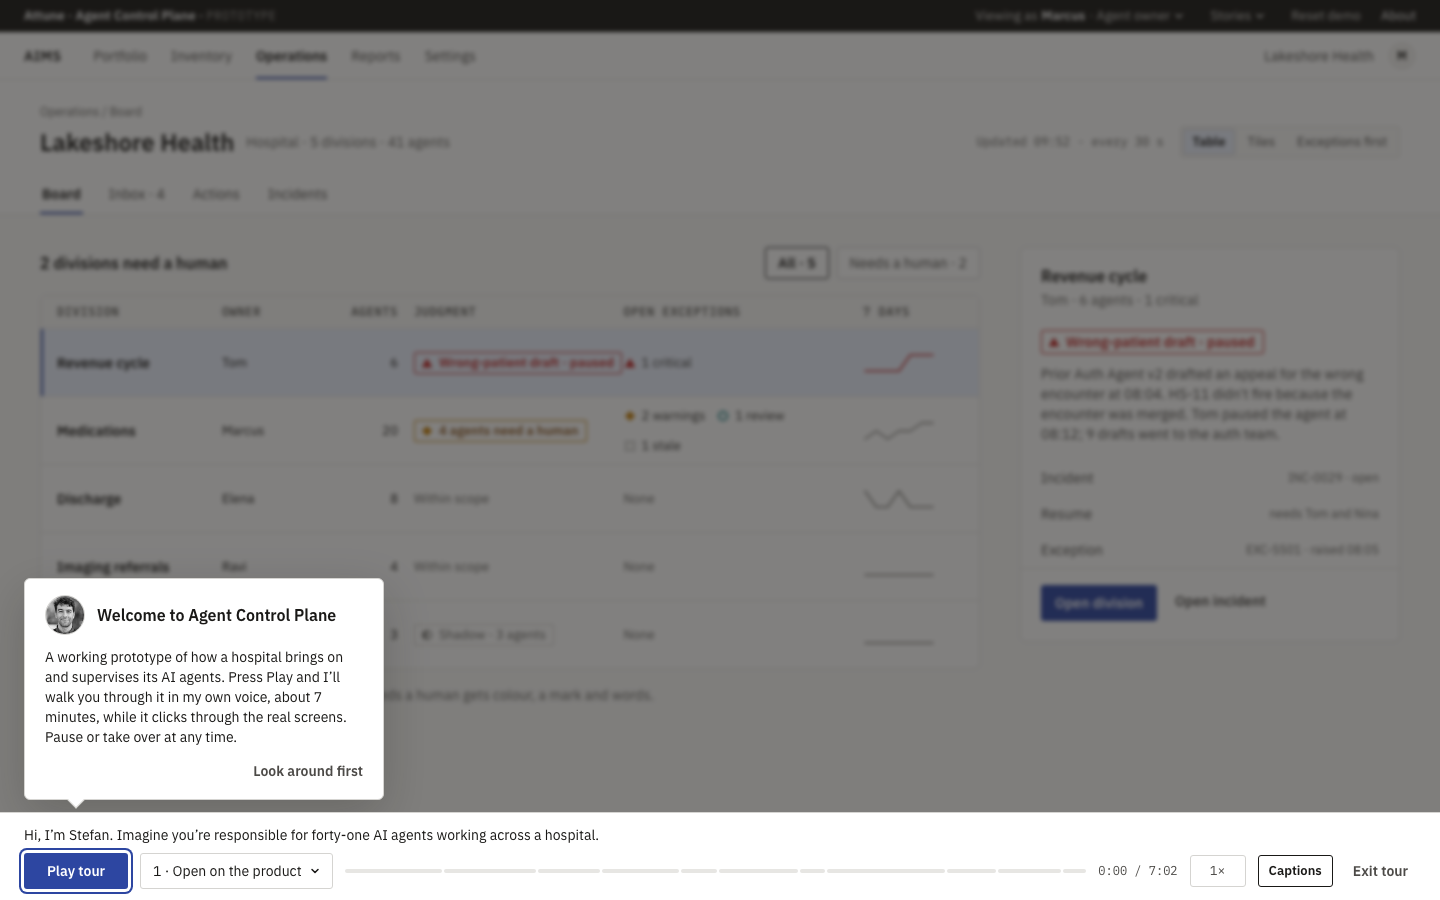
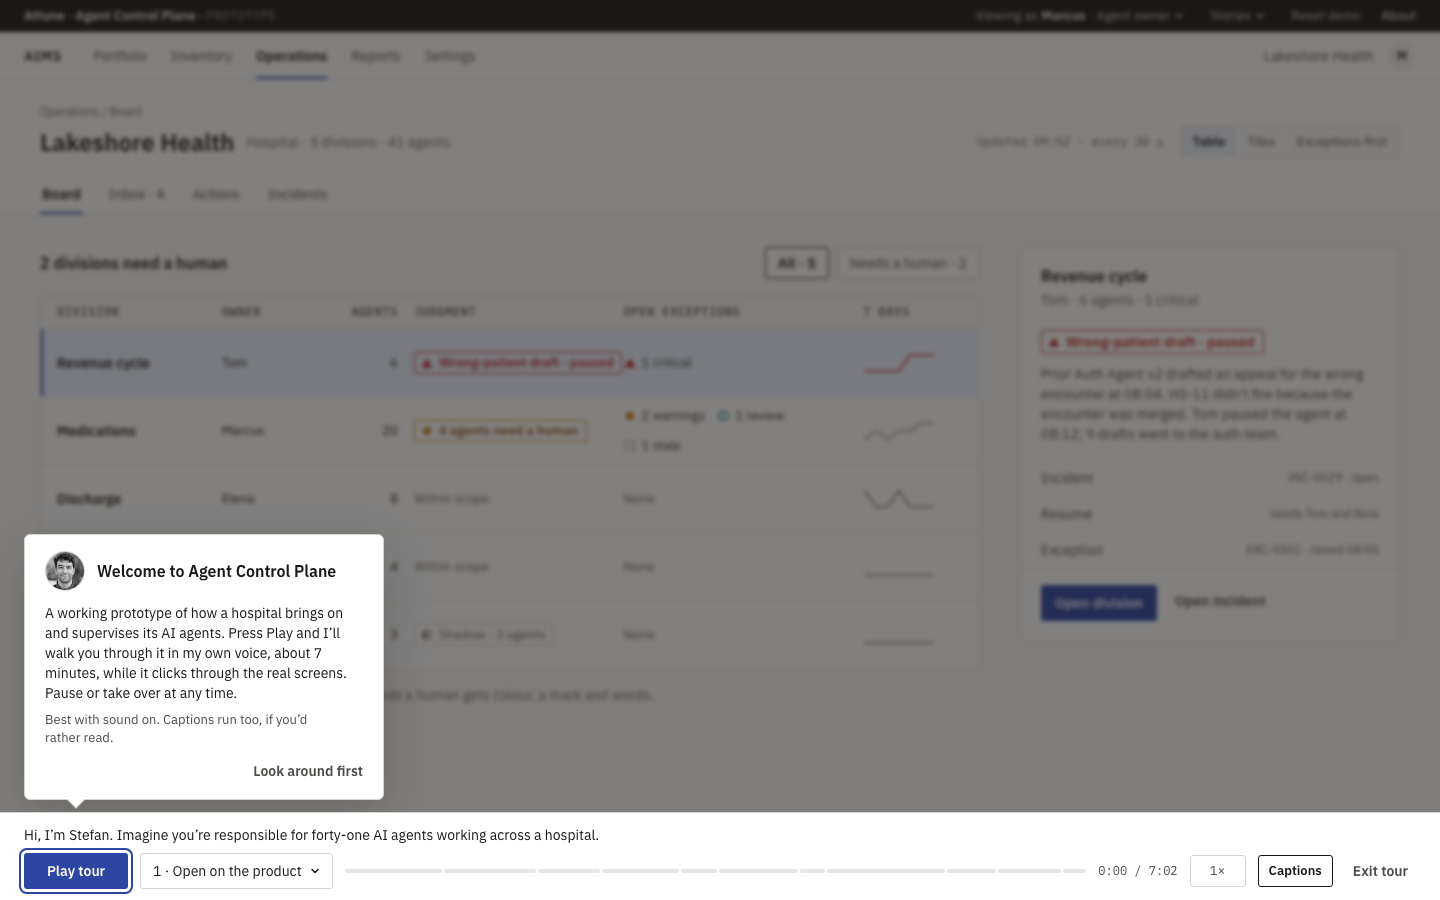
feat: ask for sound on the landing page and in the welcome; captions cover the rest
A page can't read or change the visitor's volume, so it asks: "Best with
sound on" under Play the tour, and a line in the welcome that also says the
captions run.

Changed region(s): [[0.0, 0.5911, 0.2812, 0.84]]

diff --git a/src/prototype/Landing/Landing.tsx b/src/prototype/Landing/Landing.tsx
@@ -27,6 +27,7 @@ export function Landing() {
   const { timeline, player } = tourRuntime()
   const minutes = tourMinutes(timeline.total)
   const exploreHintId = useId()
+  const soundHintId = useId()
 
   // The click is the gesture that lets the browser play audio, so the voice is primed inside it.
   const playTour = () => {
@@ -55,9 +56,14 @@ export function Landing() {
           41 agents in 5 divisions. The clock is frozen at Tue 08 Dec 2026, 09:52.
         </p>
         <div className={styles.actions}>
-          <Button variant="primary" onClick={playTour}>
-            Play the tour · {minutes} min
-          </Button>
+          <div className={styles.play}>
+            <Button variant="primary" aria-describedby={soundHintId} onClick={playTour}>
+              Play the tour · {minutes} min
+            </Button>
+            <span id={soundHintId} className={type.meta}>
+              Best with sound on
+            </span>
+          </div>
           <div className={styles.more}>
             <div className={styles.moreButtons}>
               <Button variant="secondary" aria-describedby={exploreHintId} onClick={exploreFreely}>

diff --git a/src/prototype/Landing/Landing.test.tsx b/src/prototype/Landing/Landing.test.tsx
@@ -141,6 +141,14 @@ test('the Marcus hint sits directly under Explore freely, and describes it', () 
   expect(explore.parentElement!.nextElementSibling).toBe(hint)
 })
 
+test('the sound hint sits directly under Play the tour, and describes it', () => {
+  show()
+  const play = screen.getByRole('button', { name: /^Play the tour · \d+ min$/ })
+  const hint = screen.getByText('Best with sound on')
+  expect(play).toHaveAccessibleDescription('Best with sound on')
+  expect(play.nextElementSibling).toBe(hint)
+})
+
 test('the button says the tour’s length in whole minutes, and never 0', () => {
   showWithLength((7 * 60 + 2) * 1000)
   expect(screen.getByRole('button', { name: 'Play the tour · 7 min' })).toBeInTheDocument()

diff --git a/src/prototype/tour/TourWelcome.test.tsx b/src/prototype/tour/TourWelcome.test.tsx
@@ -76,6 +76,13 @@ test('scrim and card sit in one layer marked data-tour="welcome", the tour’s o
   expect(layer()).toContainElement(region())
 })
 
+test('it asks for sound, and says the captions run too, as part of what Play is described by', () => {
+  setup()
+  expect(document.getElementById('welcome-body')).toHaveTextContent(
+    'Best with sound on. Captions run too, if you’d rather read.',
+  )
+})
+
 test('a link that starts after the first chapter says where it starts', () => {
   setup({ chapter: 1 })
   expect(screen.getByText('You’re starting at chapter 2 of 2: Decision 1.')).toBeInTheDocument()

diff --git a/src/prototype/tour/TourWelcome.tsx b/src/prototype/tour/TourWelcome.tsx
@@ -173,6 +173,7 @@ export function TourWelcome({
             and I’ll walk you through it in my own voice, about {minutes} minutes, while it clicks
             through the real screens. Pause or take over at any time.
           </p>
+          <p className={styles.note}>Best with sound on. Captions run too, if you’d rather read.</p>
           {shown > 0 ? (
             <p className={styles.partway}>
               You’re starting at chapter {n} of {chapters.length}: {chapters[shown]?.title}.

diff --git a/src/prototype/tour/TourWelcome.module.css b/src/prototype/tour/TourWelcome.module.css
@@ -100,11 +100,13 @@
   text-wrap: pretty;
 }
 
+.note,
 .partway {
   margin: 0;
   font-size: 13px;
   line-height: 18px;
   color: var(--cs-text2);
+  text-wrap: pretty;
 }
 
 /* One quiet action, on the right; the margin lines the ghost button's text up with the card's. */

diff --git a/src/prototype/Landing/Landing.module.css b/src/prototype/Landing/Landing.module.css
@@ -41,6 +41,7 @@
   margin-top: 8px;
 }
 
+.play,
 .more {
   display: flex;
   flex-direction: column;

diff --git a/docs/BUILD_PLAN.md b/docs/BUILD_PLAN.md
@@ -899,4 +899,4 @@ One row per working session. Newest last.
 | 2026-10-10 | 10 | Built and reviewed 10.10 (problem, people, process, validate, close; override trim) and 10.11 (decisions page, explorations, thumbnails, time model). All 65 lines in Stefan's voice; 7:15 modelled. 1090 unit and 276 e2e tests green | CHECKPOINT C on the preview |
 | 2026-10-10 | 10 | Checkpoint C: Stefan kept the mockups' names and the banner. Built and reviewed 10.12 (landing with Play the tour, the photo credit, the Attune rename) and 10.15 (About as the case study) | 10.16 |
 | 2026-10-11 | 10 | 10.16: real-time Chromium run 7:24; screenshots and og.png with Attune; README tour section. Final whole-branch review: 0 Critical, 3 Important, 9 Minor; one fix wave (Back and Forward, Explore freely, a click on interludes pauses, captions at 1024 px, the first chapter announced, copy, guards, audio caching), re-reviewed clean. 1154 unit and 288 e2e tests green; Safari moved to Stefan; PR #21 marked ready | CHECKPOINT E: Stefan reviews the preview, including Safari |
-| 2026-10-11 | 10 | Checkpoint E feedback ("really good"; the Play button is hard to find from a link): built the tour welcome (dimmed product, a card pointing at Play tour) to the approved mockup; reviewed, one small fix round. 1206 unit and 296 e2e tests green | CHECKPOINT E: Stefan reviews the welcome on the preview, then Safari and merge |
+| 2026-10-11 | 10 | Checkpoint E feedback ("really good"; the Play button is hard to find from a link): built the tour welcome (dimmed product, a card pointing at Play tour) to the approved mockup; reviewed, one small fix round. 1208 unit and 296 e2e tests green. Then "Best with sound on" under the landing page's Play and in the welcome (a page can't read the visitor's volume) | CHECKPOINT E: Stefan reviews the welcome on the preview, then Safari and merge |

diff --git a/README.md b/README.md
@@ -51,7 +51,7 @@
 - **The mock hospital** is one versioned Zustand store with named scenarios (moments in time such as "resume requested" or "nine days later"). Every change goes through `can()` for permissions and writes the audit log, so any action can be traced back.
 - **The story engine** (`src/prototype/stories`) keeps `?story=&step=` in the URL, loads the moment each step needs, and keeps what the visitor did between steps.
 - **The guided tour** (`src/prototype/tour`) is data: eleven chapters of narration, each line with the clicks and outlines that play under it. A player runs one line at a time, clip and actions together, over the same router and store as everything else. Its recorded clips live in `public/tour/audio`, with their lengths in a manifest.
-- **Tests:** 1206 unit tests (Vitest and Testing Library) and 296 end-to-end tests (Playwright), including every route, every story from a shared link, every chapter of the tour, keyboard paths, and an axe accessibility check (WCAG 2.1 AA) on every screen. A further run, opt-in because it takes 7½ minutes, plays the whole tour in real time in its recorded voice. `pnpm capture` screenshots each frame beside its design for visual QA.
+- **Tests:** 1208 unit tests (Vitest and Testing Library) and 296 end-to-end tests (Playwright), including every route, every story from a shared link, every chapter of the tour, keyboard paths, and an axe accessibility check (WCAG 2.1 AA) on every screen. A further run, opt-in because it takes 7½ minutes, plays the whole tour in real time in its recorded voice. `pnpm capture` screenshots each frame beside its design for visual QA.
 
 ## Run it locally
 
